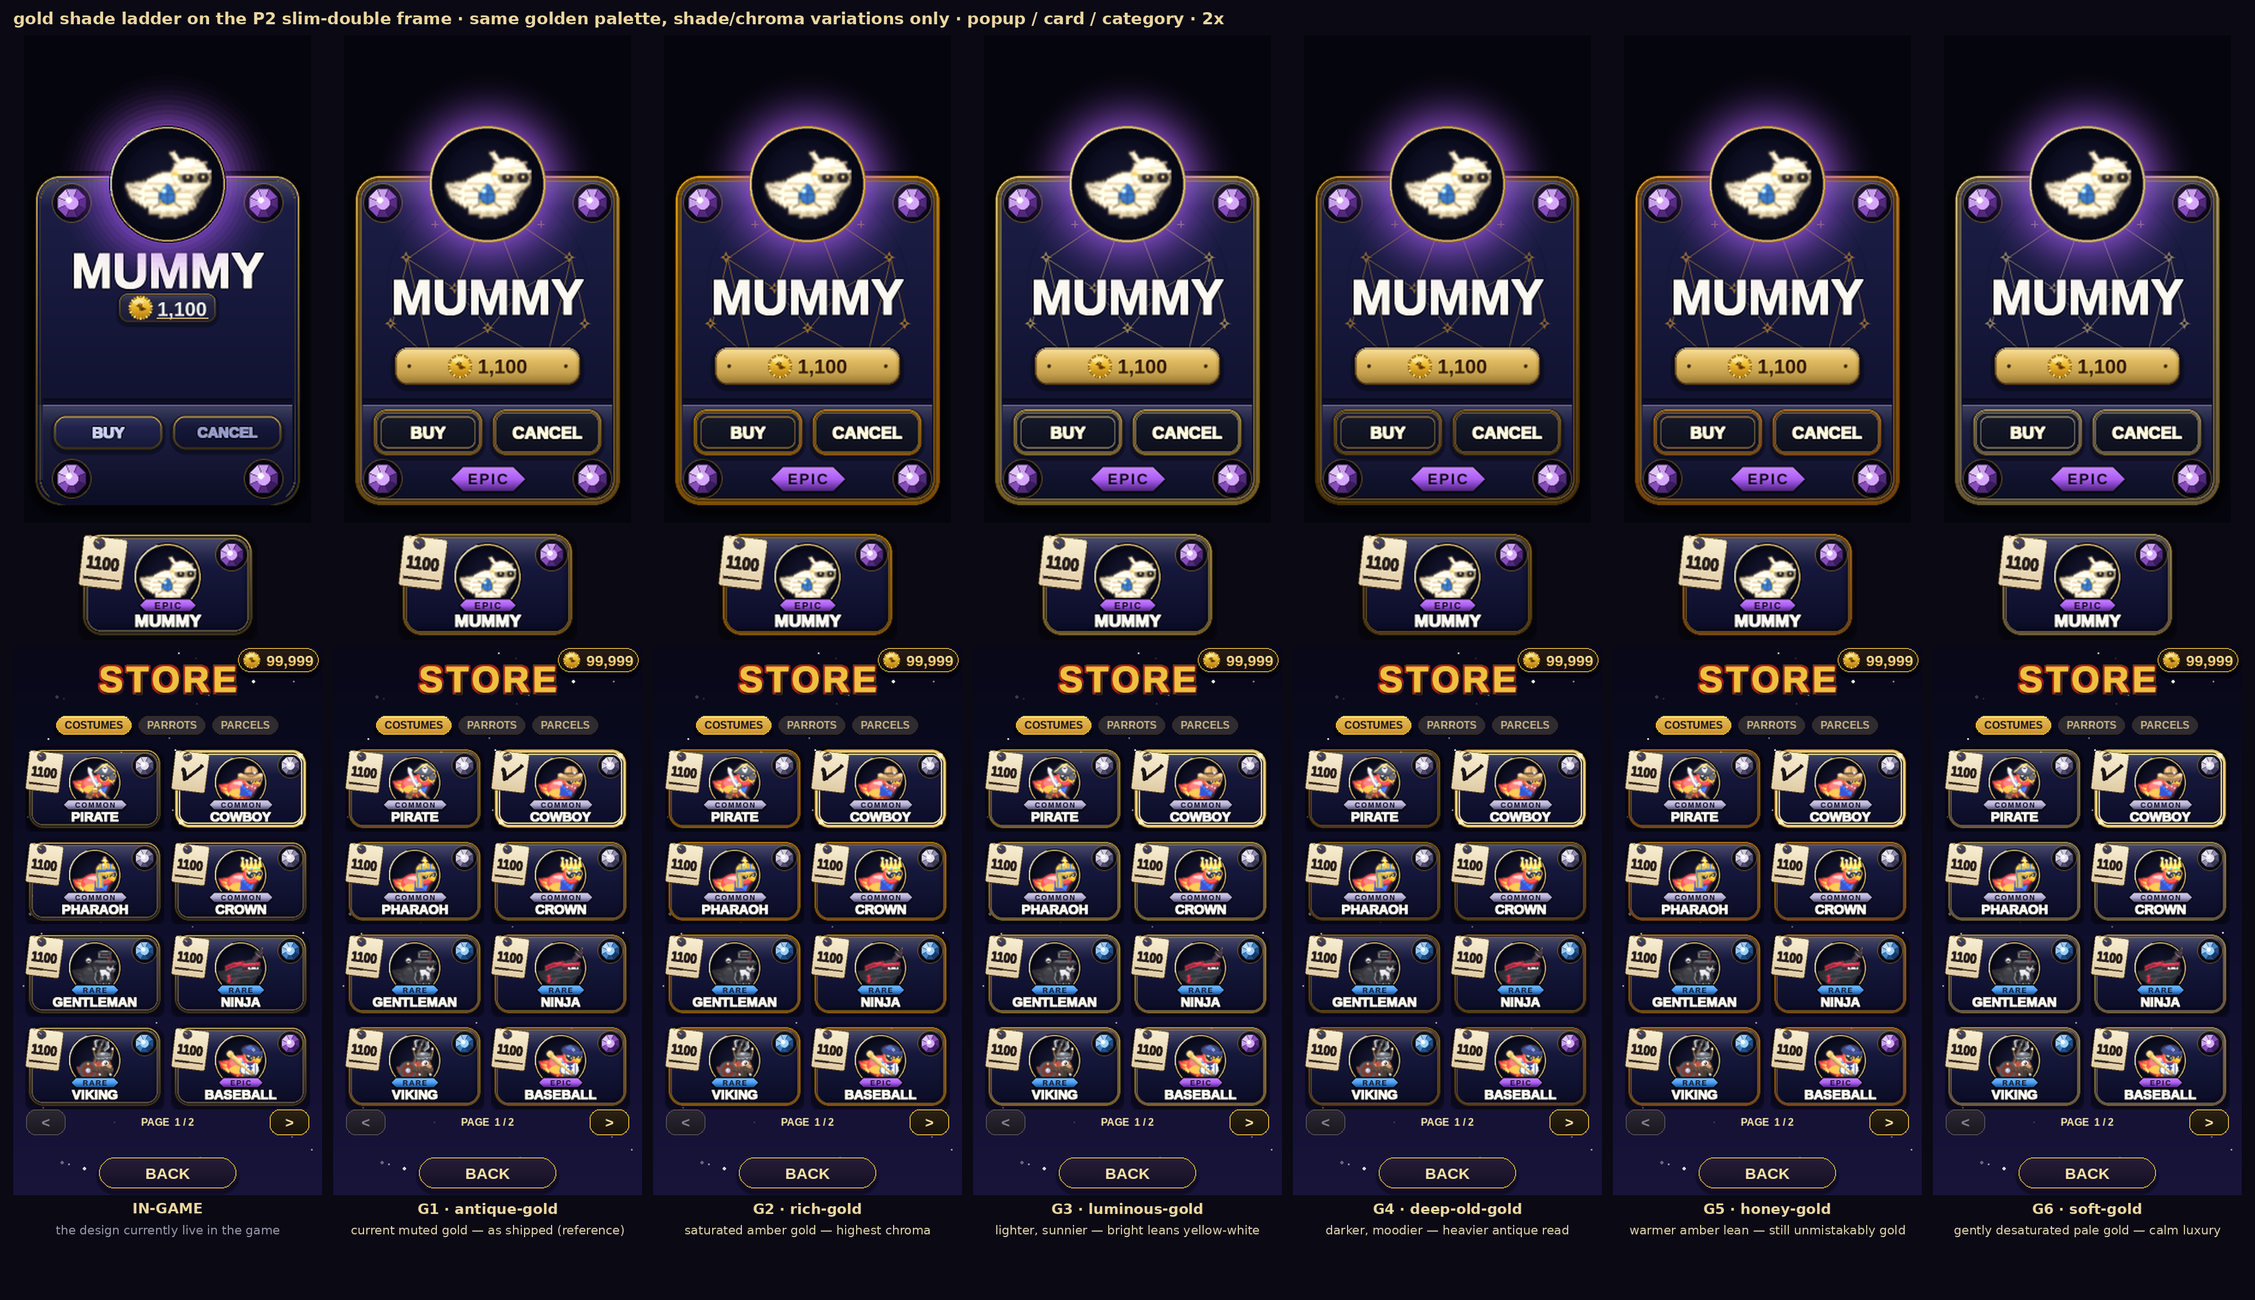
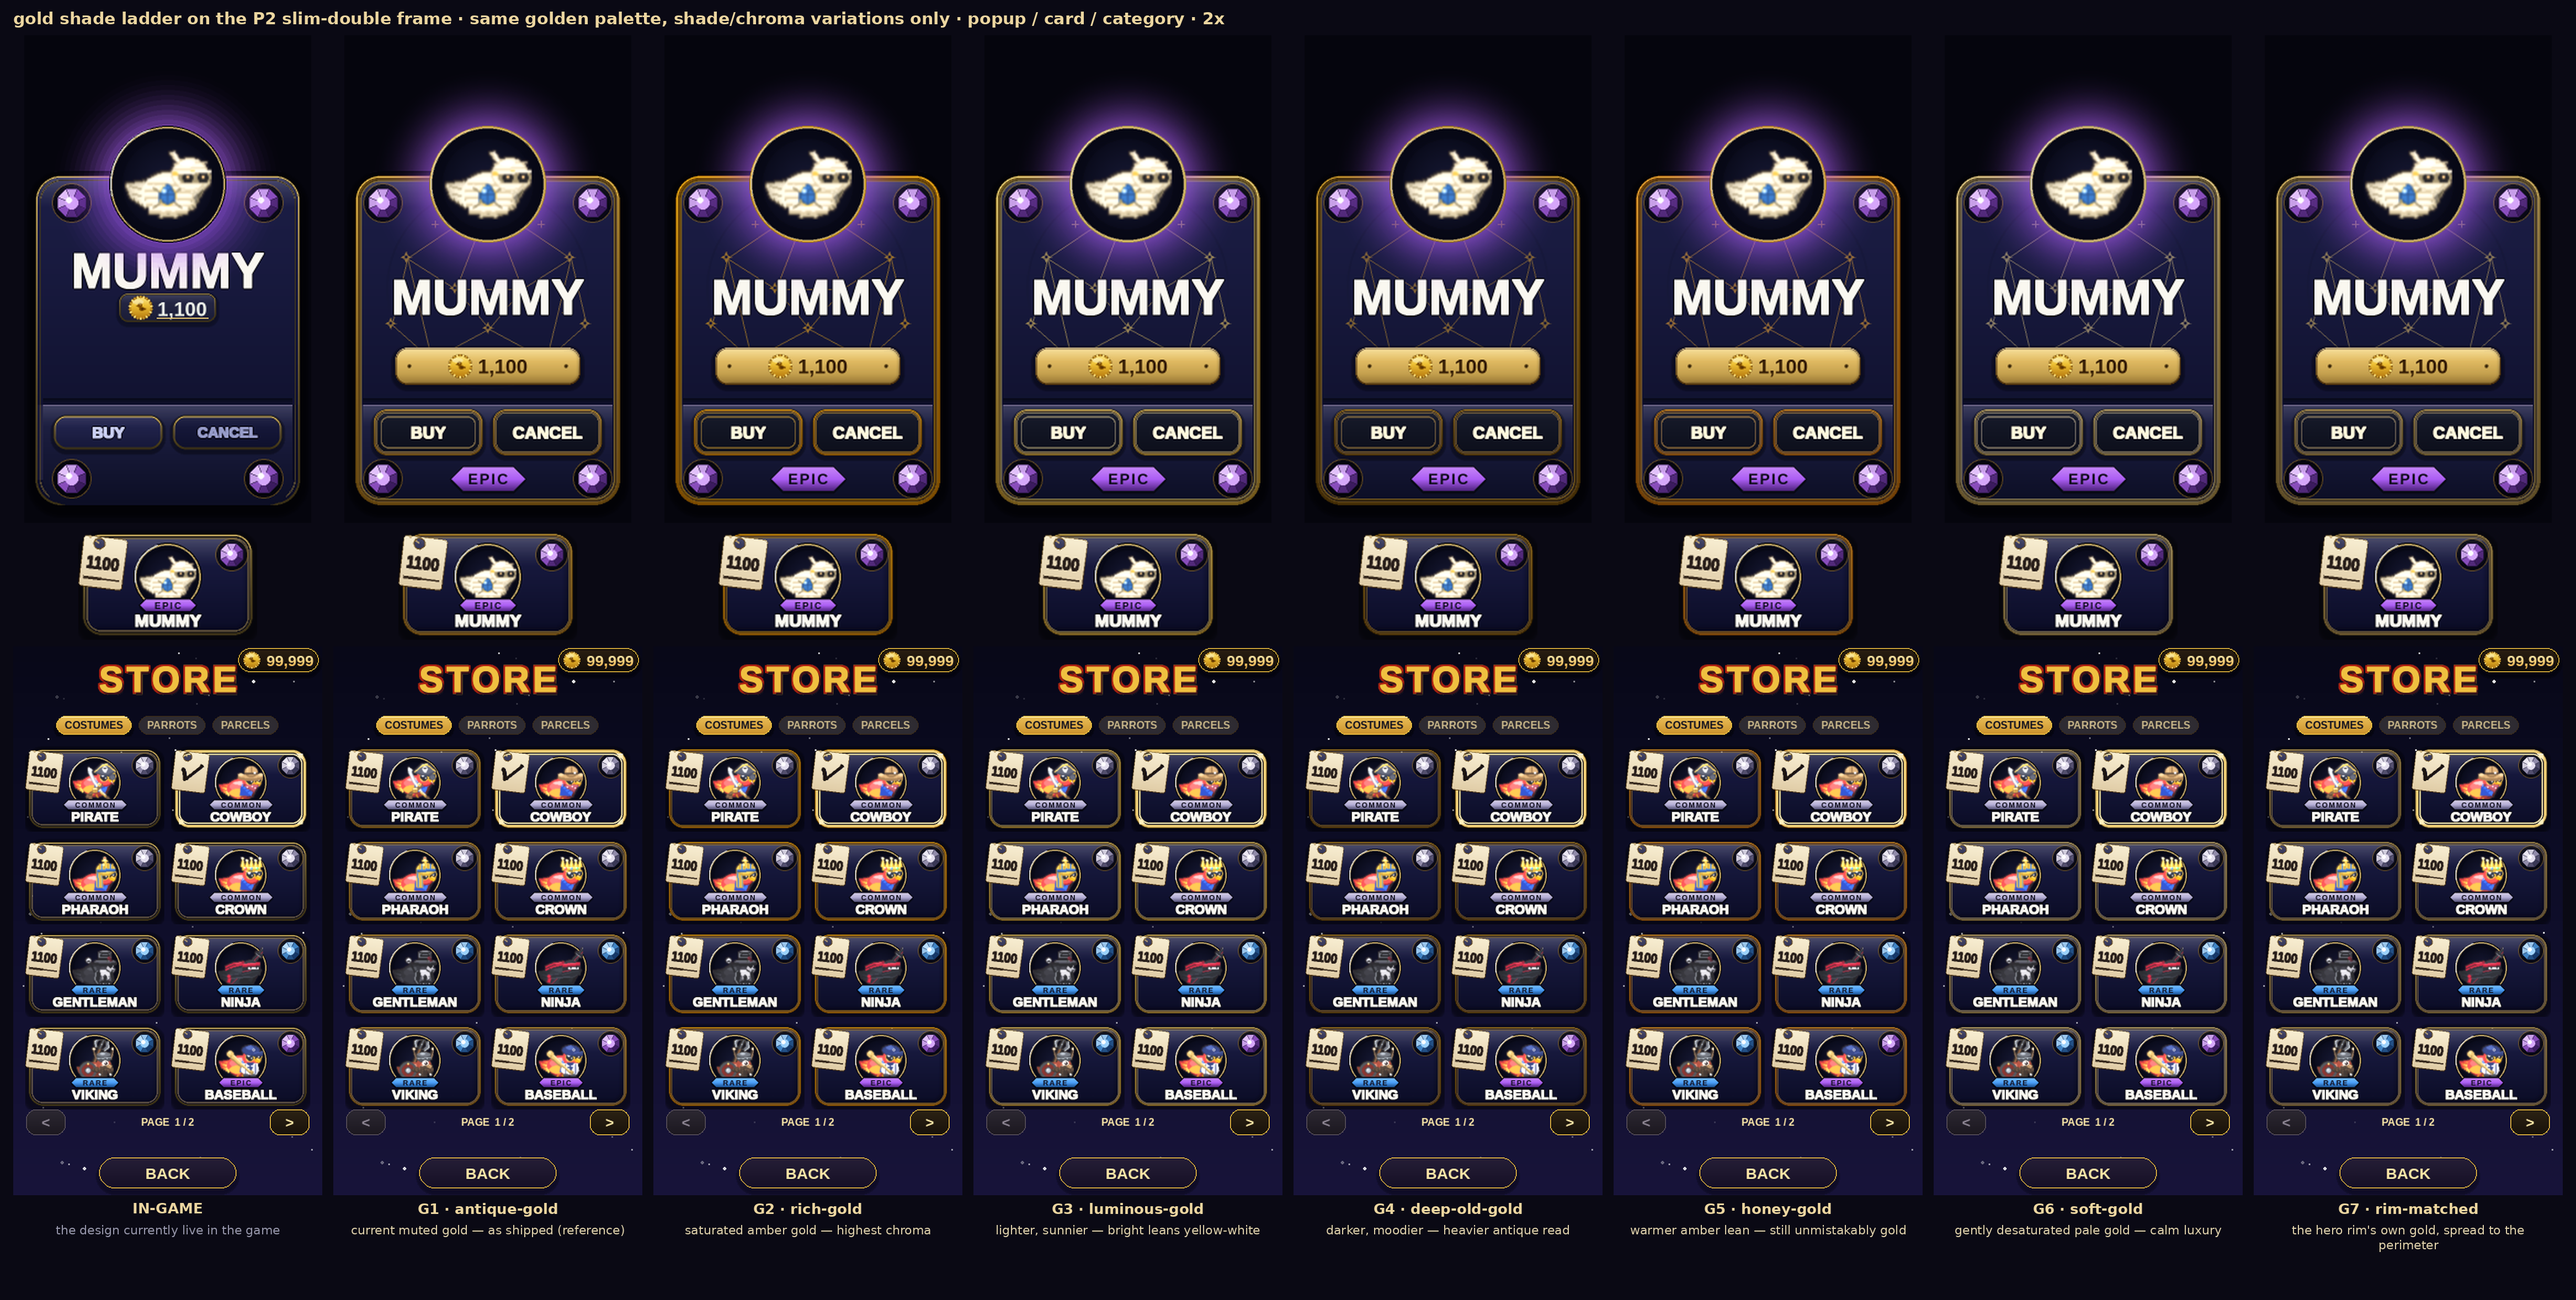
Add G7 rim-matched gold: perimeter takes the hero rim's sampled color
Claude-Session: https://claude.ai/code/session_01HZruNdjCPrRs3WrJUvXQLo

diff --git a/tools/_confirm_v8_premv1_hybrid2_perimeter_colors.py b/tools/_confirm_v8_premv1_hybrid2_perimeter_colors.py
@@ -6,7 +6,8 @@ shelf, stock card footer. Each column swaps the perimeter gold
 holistically: popup frame, button rims, card frame, category cards, hero
 ring, corner/bottom gems, and background glints all follow.
 Columns: IN-GAME · G1 antique (reference) · G2 rich · G3 luminous ·
-G4 deep-old · G5 honey · G6 soft.
+G4 deep-old · G5 honey · G6 soft · G7 rim-matched (perimeter takes the
+gold sampled from the popup's hero rim).
 
 Output: colorways/perimeter_gold_shades_v1.png
 """
@@ -75,6 +76,12 @@ COLORWAYS = [
      dict(deep=(100, 82, 42), mid=(212, 184, 112), bright=(250, 226, 156),
           gem=(232, 202, 126), gem_deep=(116, 94, 48),
           glint=(230, 204, 134), ring=(238, 212, 144))),
+    # Sampled from the popup's hero rim as rendered: mean (200,166,87),
+    # peak (228,196,112), hue 42° — the perimeter takes the rim's own gold.
+    ("G7 · rim-matched", "the hero rim's own gold, spread to the perimeter",
+     dict(deep=(92, 75, 37), mid=(204, 168, 86), bright=(230, 197, 111),
+          gem=(222, 186, 98), gem_deep=(104, 84, 42),
+          glint=(224, 190, 104), ring=(232, 198, 110))),
 ]
 
 
